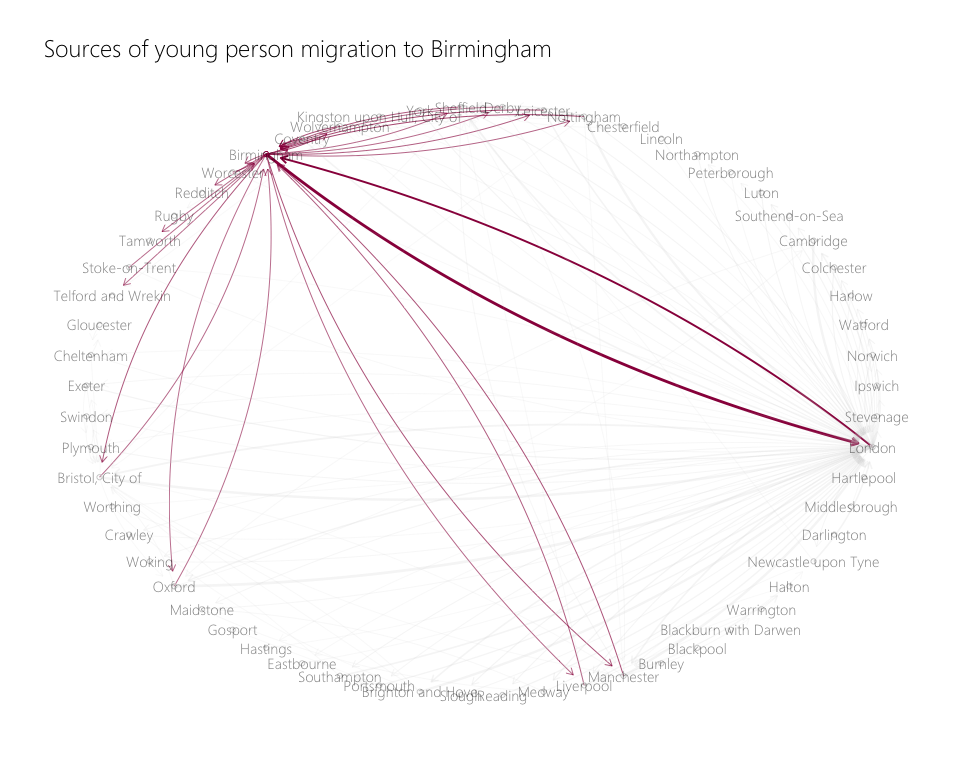
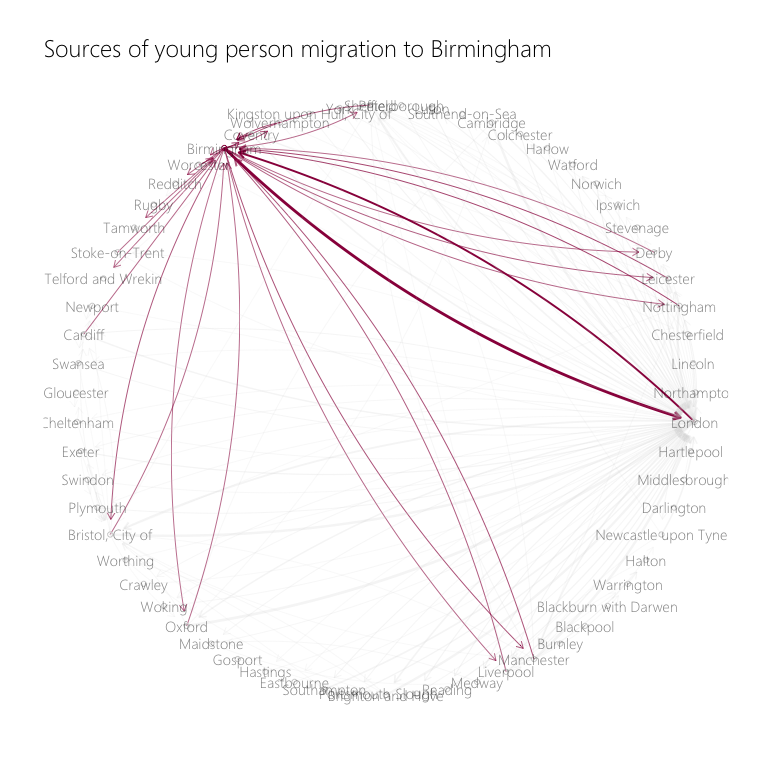
Further analysis

diff --git a/README.md b/README.md
@@ -47,20 +47,9 @@ migration
 
 ``` r
 local_authority_codes <- 
-  read_csv("Local_Authority_District_to_Region_December_2018_Lookup_in_England.csv") %>% 
+  readxl::read_xlsx("lasregionew2018.xlsx", skip = 4) %>% 
   select("la_code" = 1, "la_name" = 2, "region" = 4)
-```
 
-    ## Parsed with column specification:
-    ## cols(
-    ##   LAD18CD = col_character(),
-    ##   LAD18NM = col_character(),
-    ##   RGN18CD = col_character(),
-    ##   RGN18NM = col_character(),
-    ##   FID = col_double()
-    ## )
-
-``` r
 london_codes <- local_authority_codes %>% filter(region == "London")
 ```
 
@@ -293,7 +282,7 @@ plot_migration("Bristol, City of", color = "#7874B5")
 ``` r
 migration_net <- graph_from_data_frame(d = edges %>% filter(moves > 100), vertices = nodes, directed = TRUE)
 
-ggraph(migration_net, layout = 'kk') +
+ggraph(migration_net, layout = "kk") +
   geom_edge_fan(aes(alpha = moves), arrow = arrow(length = unit(2, "mm")), 
                 end_cap = circle(4, "mm"), show.legend = FALSE) + 
   geom_node_point(shape = 21) + 
@@ -340,9 +329,7 @@ migration_intra_region <- migration %>%
   ungroup() 
 ```
 
-    ## Joining, by = "out_la"
-
-    ## Joining, by = "in_la"
+    ## Joining, by = "out_la"Joining, by = "in_la"
 
 ``` r
 nodes <- migration_intra_region %>% 
@@ -367,7 +354,7 @@ edges <- edges %>% select(from, to, moves)
 ```
 
 ``` r
-migration_intra_region_network <- graph_from_data_frame(d = edges %>% filter(moves < 50), 
+migration_intra_region_network <- graph_from_data_frame(d = edges %>% filter(moves > 50), 
                                                         vertices = nodes, directed = TRUE)
 
 ggraph(migration_intra_region_network, layout = 'kk') +
@@ -377,9 +364,168 @@ ggraph(migration_intra_region_network, layout = 'kk') +
                 show.legend = FALSE) + 
   geom_node_point(show.legend = FALSE) +
   geom_node_text(aes(label = city)) + 
-  scale_edge_width(range = c(0.1, 2)) + 
-  facet_nodes(~region, scales = "free") + 
-  theme_graph(border = FALSE, title_family = "Segoe UI Light")
+  scale_edge_width(range = c(0.1, 5)) + 
+  facet_nodes(~region, scales = "free", ncol = 2) 
 ```
 
 ![](README_files/figure-gfm/unnamed-chunk-15-1.png)<!-- -->
+
+``` r
+library(sf)
+```
+
+    ## Linking to GEOS 3.6.1, GDAL 2.1.3, PROJ 4.9.3
+
+``` r
+uk_map <- read_sf("uk map", 
+                  "Local_Authority_Districts_December_2017_Full_Clipped_Boundaries_in_Great_Britain") %>% 
+  select("la_code" = 2, "la_name" = 3) %>% 
+  st_transform(crs = 4326) 
+
+cities_coords <- semi_join(uk_map, towns_and_cities, by = "la_code") %>% st_centroid(uk_map) 
+```
+
+    ## Warning in st_centroid.sf(., uk_map): st_centroid assumes attributes are
+    ## constant over geometries of x
+
+    ## Warning in st_centroid.sfc(st_geometry(x), of_largest_polygon =
+    ## of_largest_polygon): st_centroid does not give correct centroids for
+    ## longitude/latitude data
+
+``` r
+cities_coords <- cities_coords %>% 
+  mutate(long = st_coordinates(.)[,1], 
+         lat = st_coordinates(.)[,2]) %>% 
+  as.data.frame() %>% 
+  select(-geometry) %>% 
+  as_tibble()
+```
+
+``` r
+uk_map_outline <- read_sf("uk map", "NUTS_Level_1_January_2018_Ultra_Generalised_Clipped_Boundaries_in_the_United_Kingdom") %>% 
+  st_transform(crs = 4326) %>% 
+  filter(!(nuts118nm %in% c("Scotland", "Northern Ireland"))) %>% 
+  st_union() 
+```
+
+``` r
+nodes <- migration %>% 
+  select(out_la) %>% 
+  distinct() %>% 
+  rowid_to_column(var = "id") %>% 
+  rename("city" = out_la)
+
+edges <- migration %>% 
+  group_by(out_la, in_la) %>% 
+  filter(age %in% c(23:30)) %>% 
+  summarise(moves = sum(moves)) %>% 
+  ungroup() %>% 
+  left_join(nodes, by = c("out_la" = "city")) %>% 
+  rename("from" = id)
+
+edges <- edges %>% 
+  left_join(nodes, by = c("in_la" = "city")) %>% 
+  rename("to" = id)
+
+edges <- edges %>% select(from, to, moves)
+
+cities_coords <- cities_coords %>% 
+  right_join(nodes, by = c("la_name" = "city")) %>% 
+  select(-la_code)
+
+cities_coords[cities_coords$la_name == "London",]$long <- 0.1278
+cities_coords[cities_coords$la_name == "London",]$lat <- 51.5074
+
+moves_total <- edges %>% 
+  group_by(to) %>% 
+  summarise(total_moves = sum(moves)) %>% 
+  ungroup() %>% 
+  rename("id" = to)
+
+nodes <- nodes %>% left_join(moves_total, by = "id")
+```
+
+``` r
+migration_coords <- graph_from_data_frame(d = edges %>% filter(moves > 50), vertices = nodes, directed = TRUE)
+
+migration_coords <- create_layout(migration_coords, 
+              layout = bind_cols(list("x" = cities_coords$long, "y" = cities_coords$lat)))
+
+ggraph(migration_coords) + 
+  geom_edge_fan(aes(alpha = moves, width = moves, col = moves), arrow = arrow(length = unit(2, "mm")), 
+                end_cap = circle(4, "mm"), show.legend = FALSE) + 
+  geom_node_point(aes(size = total_moves), col = "darkgrey", show.legend = FALSE) + 
+  geom_node_text(aes(label = city), vjust = -0.5, family = "Segoe UI Light", 
+                 size = 3, color = "darkgrey") + 
+  scale_alpha_continuous(range = c(0.1, 0.5)) + 
+  scale_edge_width(range = c(0.2, 1)) + 
+  scale_edge_color_distiller(palette = "Reds") +
+  geom_sf(data = uk_map_outline, fill = NA, col = "lightgrey", size = 0.1) + 
+  labs(title = "Internal Migration of young people between England and \nWales's largest towns and cities") +
+  theme_graph(border = FALSE, title_family = "Segoe UI Light", 
+              title_colour = "darkgrey",
+              background = "#0E0E16")
+```
+
+![](README_files/figure-gfm/unnamed-chunk-19-1.png)<!-- -->
+
+``` r
+plot_migration_map <- function(city, color = "skyblue"){
+  
+  city_id <- nodes[nodes$city == city,]$id
+  
+  edges <- edges %>% mutate(is_city = to %in% city_id | from %in% city_id)
+  nodes <- nodes %>% mutate(is_city = id == city_id)
+  
+  migration_coords <- graph_from_data_frame(d = edges %>% filter(moves > 50), vertices = nodes, directed = TRUE)
+  
+  migration_coords <- create_layout(migration_coords, 
+                                    layout = bind_cols(list("x" = cities_coords$long, "y" = cities_coords$lat)))
+  
+  ggraph(migration_coords) + 
+    geom_edge_fan(aes(width = moves, col = is_city == TRUE, alpha = is_city),
+                  arrow = arrow(length = unit(2, "mm")), 
+                  end_cap = circle(4, "mm"), show.legend = FALSE) + 
+    geom_node_point(aes(size = total_moves), col = "darkgrey", alpha = 0.1, show.legend = FALSE) +
+    geom_node_text(aes(label = city, color = is_city), vjust = -0.5, family = "Segoe UI Light", 
+                 size = 3, show.legend = FALSE) + 
+    scale_color_manual(values = c("TRUE" = color, "FALSE" = "darkgrey")) +
+    scale_edge_width(range = c(0.2, 1)) + 
+    scale_edge_alpha_discrete(range = c(0.1, 4)) + 
+    scale_edge_color_manual(values = c("TRUE" = color, "FALSE" = "darkgrey")) + 
+    geom_sf(data = uk_map_outline, fill = NA, col = "lightgrey", size = 0.1) + 
+    labs(title = paste0("Internal Migration of young people to and from ", city)) +
+    theme_graph(border = FALSE, title_family = "Segoe UI Light", 
+                title_colour = "darkgrey",
+                background = "#0E0E16")
+  
+}
+
+plot_migration_map(city = "Birmingham", color = "#9A054A")
+```
+
+![](README_files/figure-gfm/unnamed-chunk-20-1.png)<!-- -->
+
+``` r
+plot_migration_map("Manchester", color = "red")
+```
+
+![](README_files/figure-gfm/unnamed-chunk-20-2.png)<!-- -->
+
+``` r
+plot_migration_map("Cambridge", color = "#ED700A")
+```
+
+![](README_files/figure-gfm/unnamed-chunk-20-3.png)<!-- -->
+
+``` r
+plot_migration_map("Bristol, City of", color = "#7874B5")
+```
+
+![](README_files/figure-gfm/unnamed-chunk-20-4.png)<!-- -->
+
+``` r
+plot_migration_map("Norwich", color = "#BBCEA4")
+```
+
+![](README_files/figure-gfm/unnamed-chunk-20-5.png)<!-- -->
